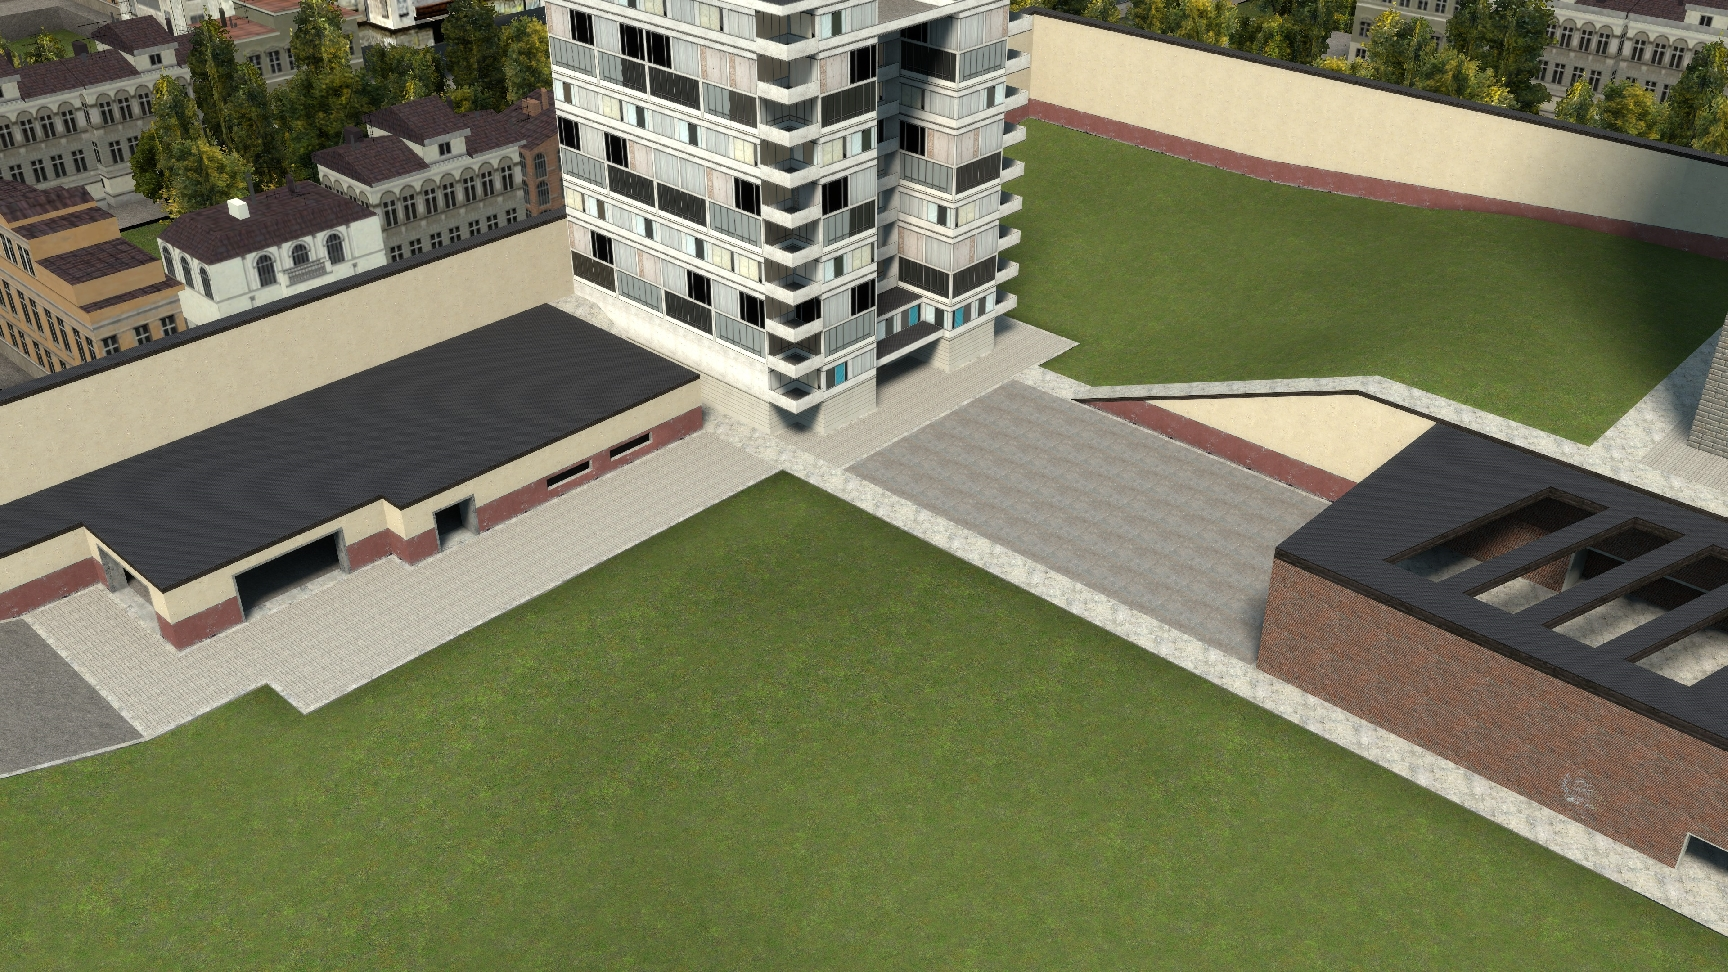
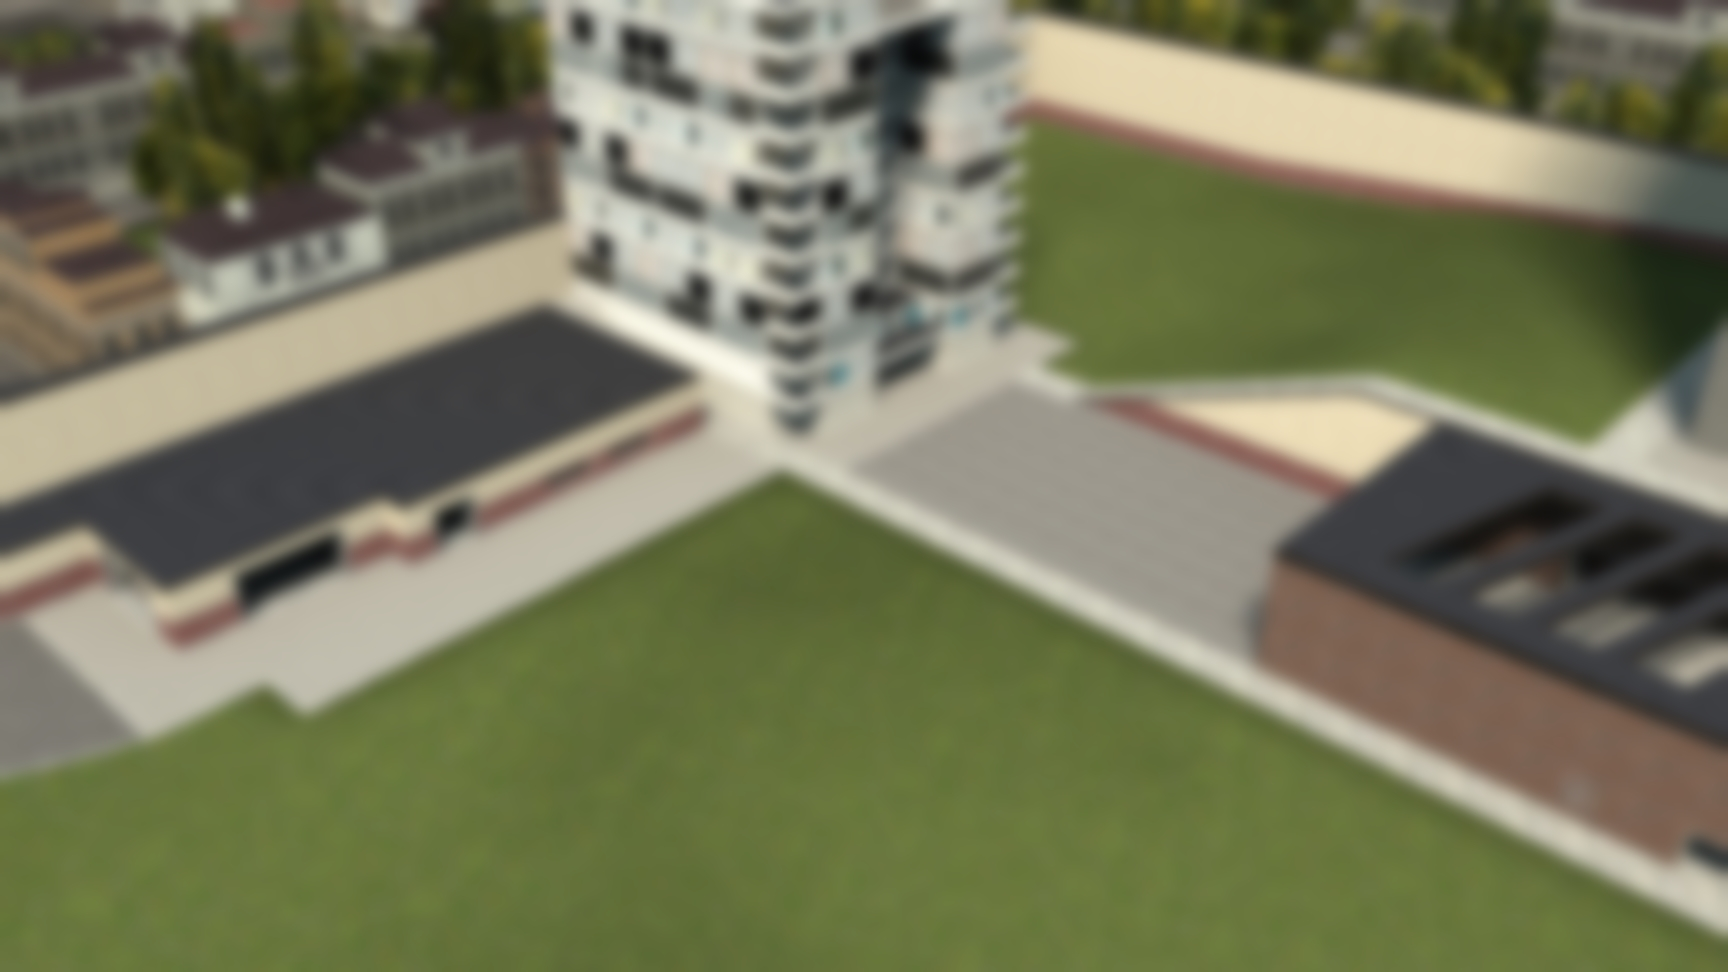
Various changes - mostly to backgrounds
blurred by doing it through image editor
added 1 background
loading bar change

diff --git a/styles/css/gmodload.css b/styles/css/gmodload.css
@@ -116,7 +116,11 @@ hr {
 	background-color: #727272;
 	height: 8px;
 	margin-top: 3px;
-    border: 1px solid #ffffff9a;
+	border: 2px solid #ffffff9a;
+	border-radius: 8px;
+	overflow: hidden;
+	display: flex;
+	align-items: center;
 }
 
 #LoadingStatus {
@@ -127,7 +131,8 @@ hr {
 	background-color: #05b0ff;
 	height: 100%;
 	width: 0%;
-    transition: all 0.25s;
+	transition: all 0.25s;
+	border-radius: 8px;
 }
 
 @keyframes loadingIcon {
